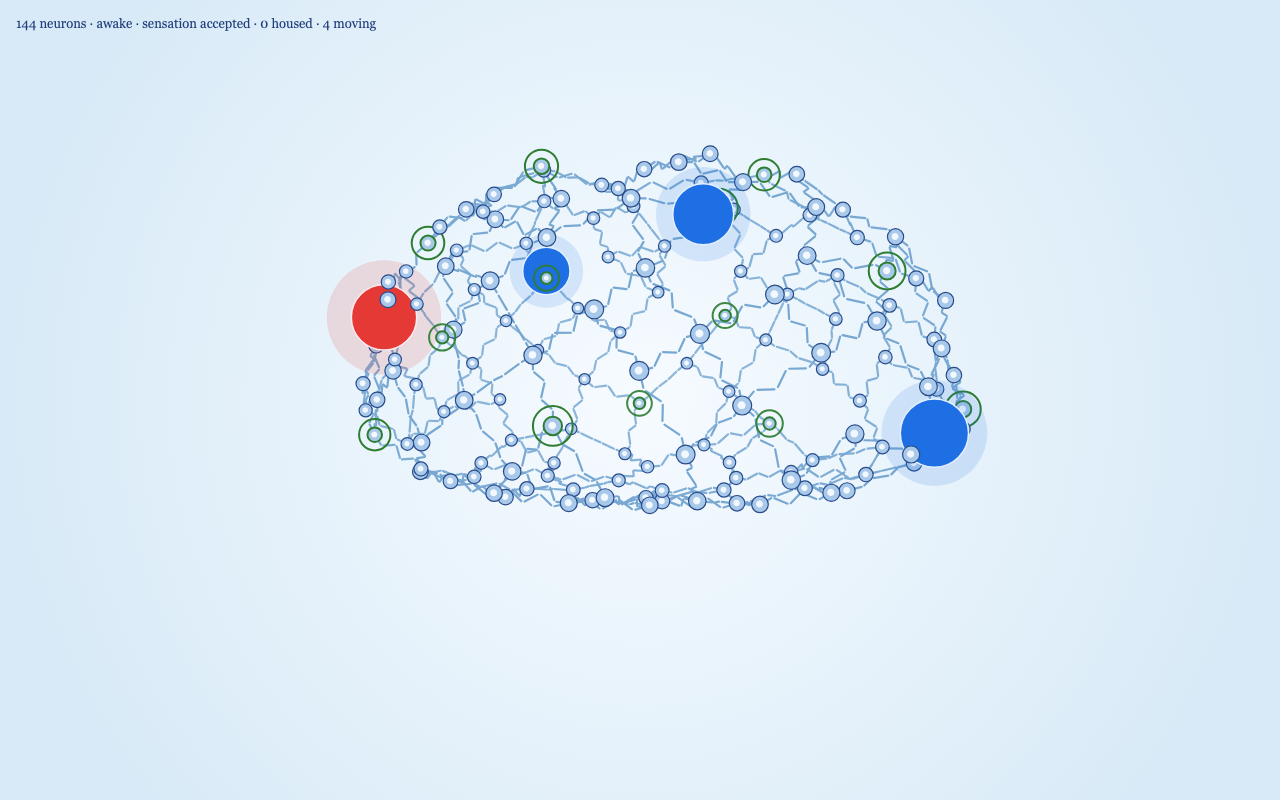
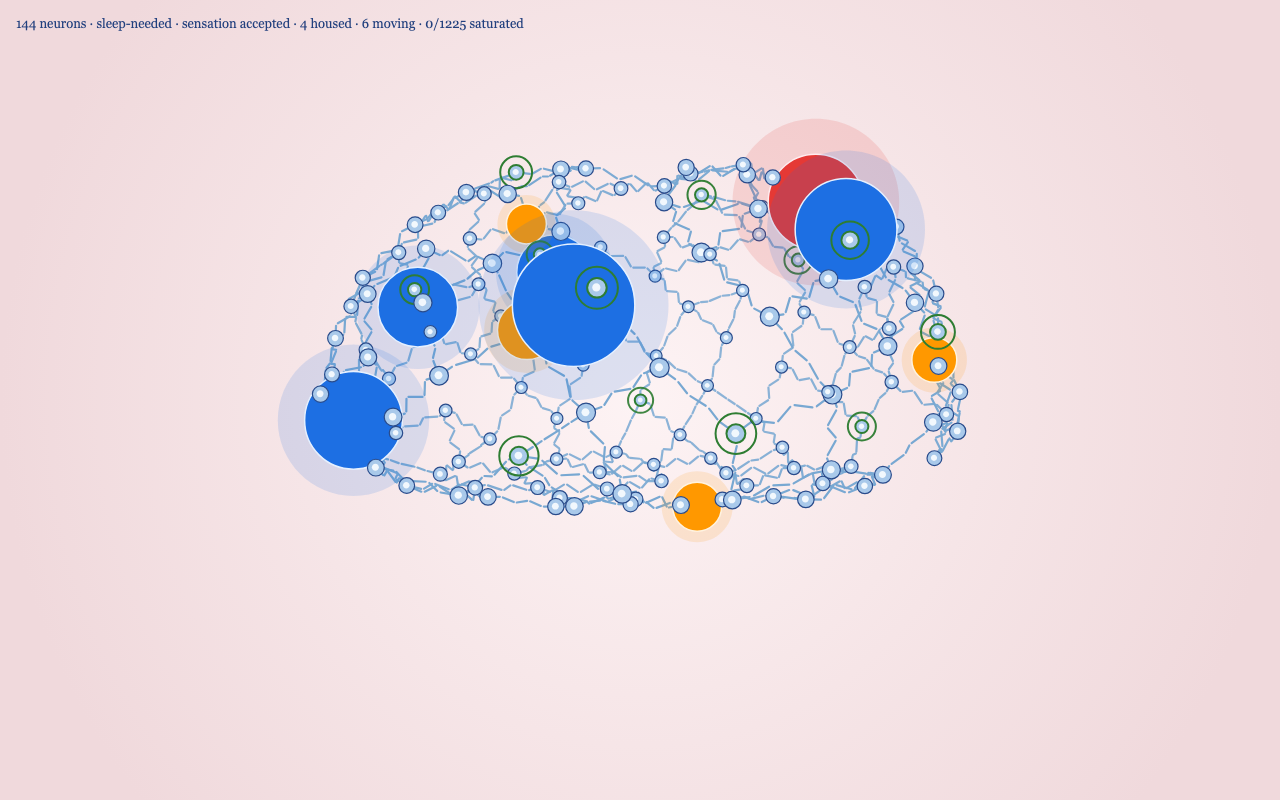
Give each sensation its own size and end fresh thoughts at half that size.
Larger sensations launch five, three, two, or one internal thoughts, and saturation is the blocked Schwann cells divided by every Schwann cell.

diff --git a/brain-3d/js/simulation.js b/brain-3d/js/simulation.js
@@ -77,10 +77,10 @@
     // cell farther from the neuron and walks around again.
     const schwannCount = config.schwann.cellsPerAxon;
     const blockCounts = cfg.saturation.blockCounts;
-    const averageBlock = blockCounts.reduce(function (sum, count) {
-      return sum + count;
-    }, 0) / blockCounts.length;
-    const saturationCapacity = cfg.maxHomes * averageBlock;
+    const schwannTotal = edges.length * schwannCount;
+    const maxInternals = cfg.external.sizes.reduce(function (max, band) {
+      return Math.max(max, band.internals);
+    }, 1);
     const saturatedSchwann = edges.map(function () {
       return new Array(schwannCount).fill(false);
     });
@@ -162,11 +162,13 @@
       hitT: 0,
       hit: null,
       receivedAt: -1,
+      startScale: 1,
+      internalCount: 0,
       serial: 0
     };
 
     const internals = [];
-    for (let i = 0; i < cfg.internalCount; i++) {
+    for (let i = 0; i < maxInternals; i++) {
       internals.push({
         active: false,
         age: 0,
@@ -228,6 +230,7 @@
       internals: internals,
       homes: homes,
       saturatedSchwann: saturatedSchwann,
+      schwannTotal: schwannTotal,
       stats: {
         cohorts: 0,
         housed: 0,
@@ -252,7 +255,7 @@
         if (saturatedSchwann[candidate.edge][candidate.cell]) continue;
         saturatedSchwann[candidate.edge][candidate.cell] = true;
         state.stats.saturated++;
-        state.saturation = clamp(state.stats.saturated / saturationCapacity, 0, 1);
+        state.saturation = state.stats.saturated / schwannTotal;
         state.stats.latestSaturated = {
           node: nodeId,
           edge: candidate.edge,
@@ -388,15 +391,19 @@
       if (item.active) placeOnRoute(item);
     }
 
-    function pickCenters() {
+    function pickCenters(count) {
       const order = anchors.map(function (_, index) { return index; });
-      for (let i = 0; i < cfg.internalCount; i++) {
+      for (let i = 0; i < count; i++) {
         const j = i + Math.floor(rng() * (order.length - i));
         const swap = order[i];
         order[i] = order[j];
         order[j] = swap;
       }
-      return order.slice(0, cfg.internalCount);
+      return order.slice(0, count);
+    }
+
+    function halfLifeScale(startScale) {
+      return startScale * cfg.halfLife;
     }
 
     function spawnInternal(item, category, targetStep, cohortSerial) {
@@ -409,7 +416,9 @@
         routeLength(external.route, edges, targetStep) -
           external.progress * edges[external.route[0].edge].length
       );
-      const arrival = externalDistance / cfg.external.speed;
+      const halfAt = external.ttl * (1 - Math.pow(cfg.halfLife, 1 / cfg.external.shrinkPower));
+      const relevantFor = Math.max(0.45, halfAt - external.age);
+      const arrival = Math.min(externalDistance / cfg.external.speed, relevantFor);
       const internalDistance = routeLength(route, edges);
       const variation = 0.92 + rng() * 0.16;
       const desiredSpeed = internalDistance / Math.max(0.5, arrival) * variation;
@@ -636,10 +645,15 @@
         return;
       }
       placeOnRoute(external);
-      const sources = pickCenters();
+      const count = external.internalCount;
+      const sources = pickCenters(count);
       state.stats.latestSources = sources.slice();
       const routeLast = Math.max(1, external.route.length - 1);
       for (let i = 0; i < internals.length; i++) {
+        if (i >= count) {
+          internals[i].active = false;
+          continue;
+        }
         const target = Math.min(routeLast, 4 + i * 4 + Math.floor(rng() * 3));
         spawnInternal(internals[i], sources[i], target, external.serial);
       }
@@ -654,12 +668,16 @@
       const outwardY = z;
       const outwardZ = ring * Math.sin(theta);
       const distance = shellRadius + cfg.external.approachGap;
+      const band = cfg.external.sizes[Math.floor(rng() * cfg.external.sizes.length)];
+      const startScale = band.scaleMin + rng() * (band.scaleMax - band.scaleMin);
       external.active = true;
       external.accepted = false;
       external.state = 'approaching';
       external.age = 0;
       external.ttl = cfg.external.ttl;
-      external.scale = cfg.external.entryScale;
+      external.startScale = startScale;
+      external.internalCount = band.internals;
+      external.scale = startScale;
       external.speed = cfg.external.speed;
       external.route = [];
       external.routeIndex = 0;
@@ -694,10 +712,10 @@
       external.scale = fadeScale(
         external.age,
         external.ttl,
-        cfg.external.entryScale,
+        external.startScale,
         cfg.external.shrinkPower
       );
-      if (external.age >= external.ttl) {
+      if (external.scale < halfLifeScale(external.startScale) || external.age >= external.ttl) {
         external.active = false;
         external.state = 'faded';
         state.stats.externalFaded++;
@@ -739,7 +757,7 @@
         if (!item.active) continue;
         item.age += dt;
         item.scale = fadeScale(item.age, item.ttl, item.startScale, item.shrinkPower);
-        if (item.age >= item.ttl) {
+        if (item.scale < halfLifeScale(item.startScale) || item.age >= item.ttl) {
           item.active = false;
           state.stats.internalFaded++;
           continue;

diff --git a/brain-3d/js/config.js b/brain-3d/js/config.js
@@ -130,7 +130,8 @@
       spawnDelay: 1.25,
       collisionScale: 1.35,
       routeEdges: 36,
-      internalCount: 3,
+      // A fresh thought loses relevance below half its own starting size.
+      halfLife: 0.5,
       maxHomes: 48,
       external: {
         ttl: 12,
@@ -143,7 +144,13 @@
         contactRadius: 0.22,
         // Received rests on the strand, then acceptance starts mesh travel.
         receiveHold: 0.65,
-        entryScale: 3.4,
+        // Larger bands launch more internal thoughts. Ranges do not overlap.
+        sizes: [
+          { scaleMin: 4.4, scaleMax: 5.4, internals: 5 },
+          { scaleMin: 3.3, scaleMax: 4.1, internals: 3 },
+          { scaleMin: 2.4, scaleMax: 3.1, internals: 2 },
+          { scaleMin: 1.6, scaleMax: 2.2, internals: 1 }
+        ],
         shrinkPower: 1.1
       },
       internal: {

diff --git a/brain-3d/js/renderer.js b/brain-3d/js/renderer.js
@@ -401,7 +401,7 @@
       let text = stats.neurons + ' neurons · ' + simulation.phase +
         sensationLabel() + ' · ' +
         stats.temporaryHomes + ' housed · ' + stats.activeThoughts + ' moving · ' +
-        Math.round(simulation.saturation * 100) + '% saturated';
+        simulation.stats.saturated + '/' + simulation.schwannTotal + ' saturated';
       if (includePerformance) {
         text += ' · ' + stats.avgMs.toFixed(2) + ' ms update · ' +
           stats.fps.toFixed(0) + ' fps';

diff --git a/brain-3d/Readme.md b/brain-3d/Readme.md
@@ -19,13 +19,13 @@ The first stage builds the skeleton:
 
 ![Sensation received where the straight flight meets the mesh](screenshots/sensation-received.png)
 
-![Sensation accepted, with three internal thoughts just launched](screenshots/thought-entry.png)
+![A large sensation accepted, launching five internal thoughts](screenshots/thought-entry.png)
 
 One deterministic cohort runs at a time:
 
 1. A large red external sensation appears outside the brain, beyond the outermost neurons, and flies in a straight line toward the brain center.
 2. The first contact with a neuron or axon is **sensation received**. The sensation settles onto that strand and rests there briefly.
-3. Acceptance is assumed for now, so received is followed by **sensation accepted**. On acceptance the sensation travels a random, non-backtracking path along the visible zigzag axons and continuously shrinks. Three distinct knowledge centers then emit one blue internal thought each. Each internal thought starts at 80–105% of the sensation's size at acceptance and shrinks at its own seeded rate: a lifetime of 4.5–12 seconds and a shrink curve between gentle and steep. It either fades to nothing or meets the shrinking sensation.
+3. Acceptance is assumed for now, so received is followed by **sensation accepted**. Each sensation has its own seeded size. A size in the largest band launches 5 internal thoughts, then 3, 2, or 1 as the bands get smaller. On acceptance the sensation travels a random, non-backtracking path and shrinks. Each internal thought starts at 80–105% of that sensation's size and shrinks at its own seeded rate. A fresh thought loses relevance once it is below half its own starting size. A temporary home is exempt and can still settle.
 4. Internal routes aim toward different future portions of the external route, with seeded timing variation. Encounters are possible without changing the external sensation's random path.
 5. Collision is tested in 3D model space, not in the 2D projection. When a pair overlaps, both are consumed and the nearest neuron becomes a temporary home.
 6. The temporary home stops, turns orange, and grows to twice the regular external-thought radius. Unused internal thoughts finish fading before the next cohort starts.
@@ -41,7 +41,7 @@ The night uses the 2D duration rule. Five unsettled homes start an 18-hour night
 - REM is very light green. It lasts at least half the calculated night, and longer if a temporary home is still walking to its domain center. Those homes travel at three times the daytime speed, then settle light green at their regular size.
 - As each thought reaches its permanent home, it blocks a seeded-random group of 1, 2, 3, or 5 adjoining Schwann cells, which turn magenta. Selection proceeds clockwise around that neuron, starting with the cells nearest the soma before moving outward.
 - Deep sleep is dark gray and lasts exactly the calculated half, even when REM ran longer. The neurons brighten so they stay visible.
-- The brain starts at 6° per second and progressively slows toward 0.6° per second as its Schwann-cell memory capacity becomes saturated.
+- Saturation is the blocked Schwann cells divided by every Schwann cell. The brain starts at 6° per second and slows toward 0.6° per second as that percentage rises.
 
 ![Deep sleep after the temporary homes have settled](screenshots/deep.png)
 - Waking eases from dark gray back to light blue.
